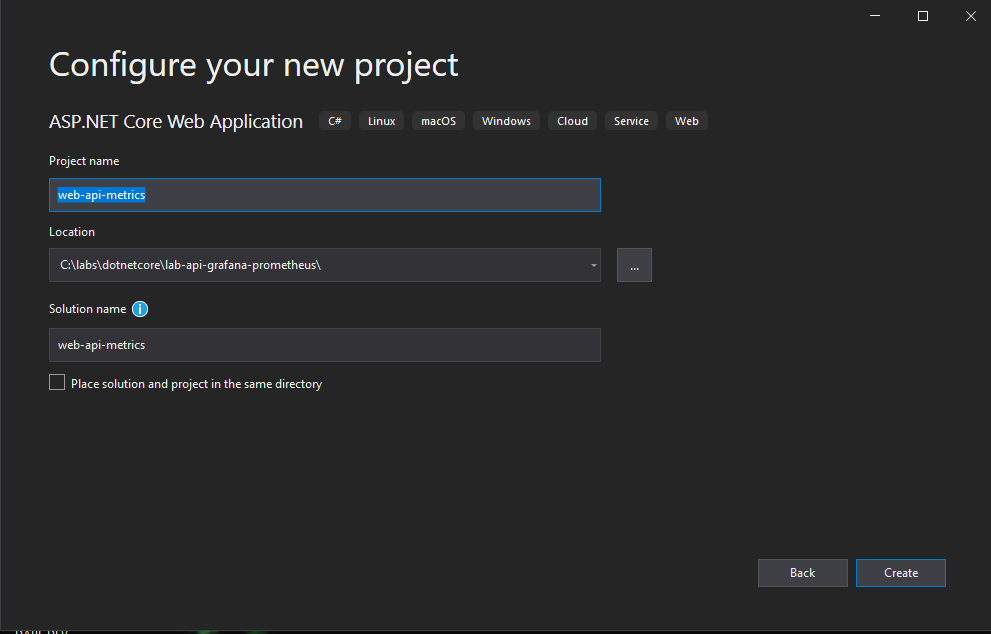
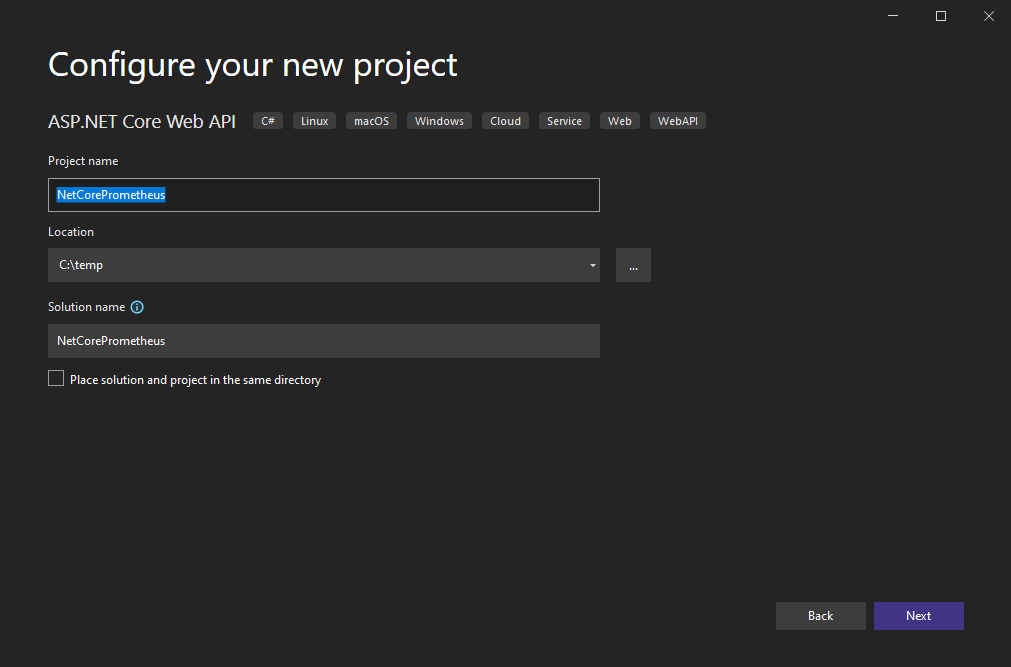
README

diff --git a/README.md b/README.md
@@ -22,9 +22,9 @@
   <li><a href="#projeto">Projeto</a></li>
   <ol>
     <li><a href="#api">API</a></li>
-    <li><a href="#examples">Configurando o Prometheus</a></li>
-    <li><a href="#examples">Docker</a></li>
-    <li><a href="#examples">Testando</a></li>
+    <li><a href="#configurando-o-prometheus">Configurando o Prometheus</a></li>
+    <li><a href="#docker">Docker</a></li>
+    <li><a href="#testando">Testando</a></li>
   </ol>
 
   <li><a href="#como-posso-contribuir">Como posso contribuir?</a></li>
@@ -82,13 +82,13 @@ O projeto de exemplo irá mostrar como é feito a configuração do Prometheus e
 
 ### API
 
-Iremos criar uma ASP.NET Core (RESTful) Web API, para isso siga o próximo passos:
+Iremos criar uma ASP.NET Core Web API, para isso siga o próximo passos:
 
 Inicie o Visual Studio e clique em Create a new project
 
 <img src="images/img_001.png" alt="alt text" title="Title" />
 
-Escolha o tipo de projeto: ASP.NET Core Web Application
+Escolha o tipo de projeto: ASP.NET Core Web API
 
 <img src="images/img_002.png" alt="alt text" title="Title" />
 
